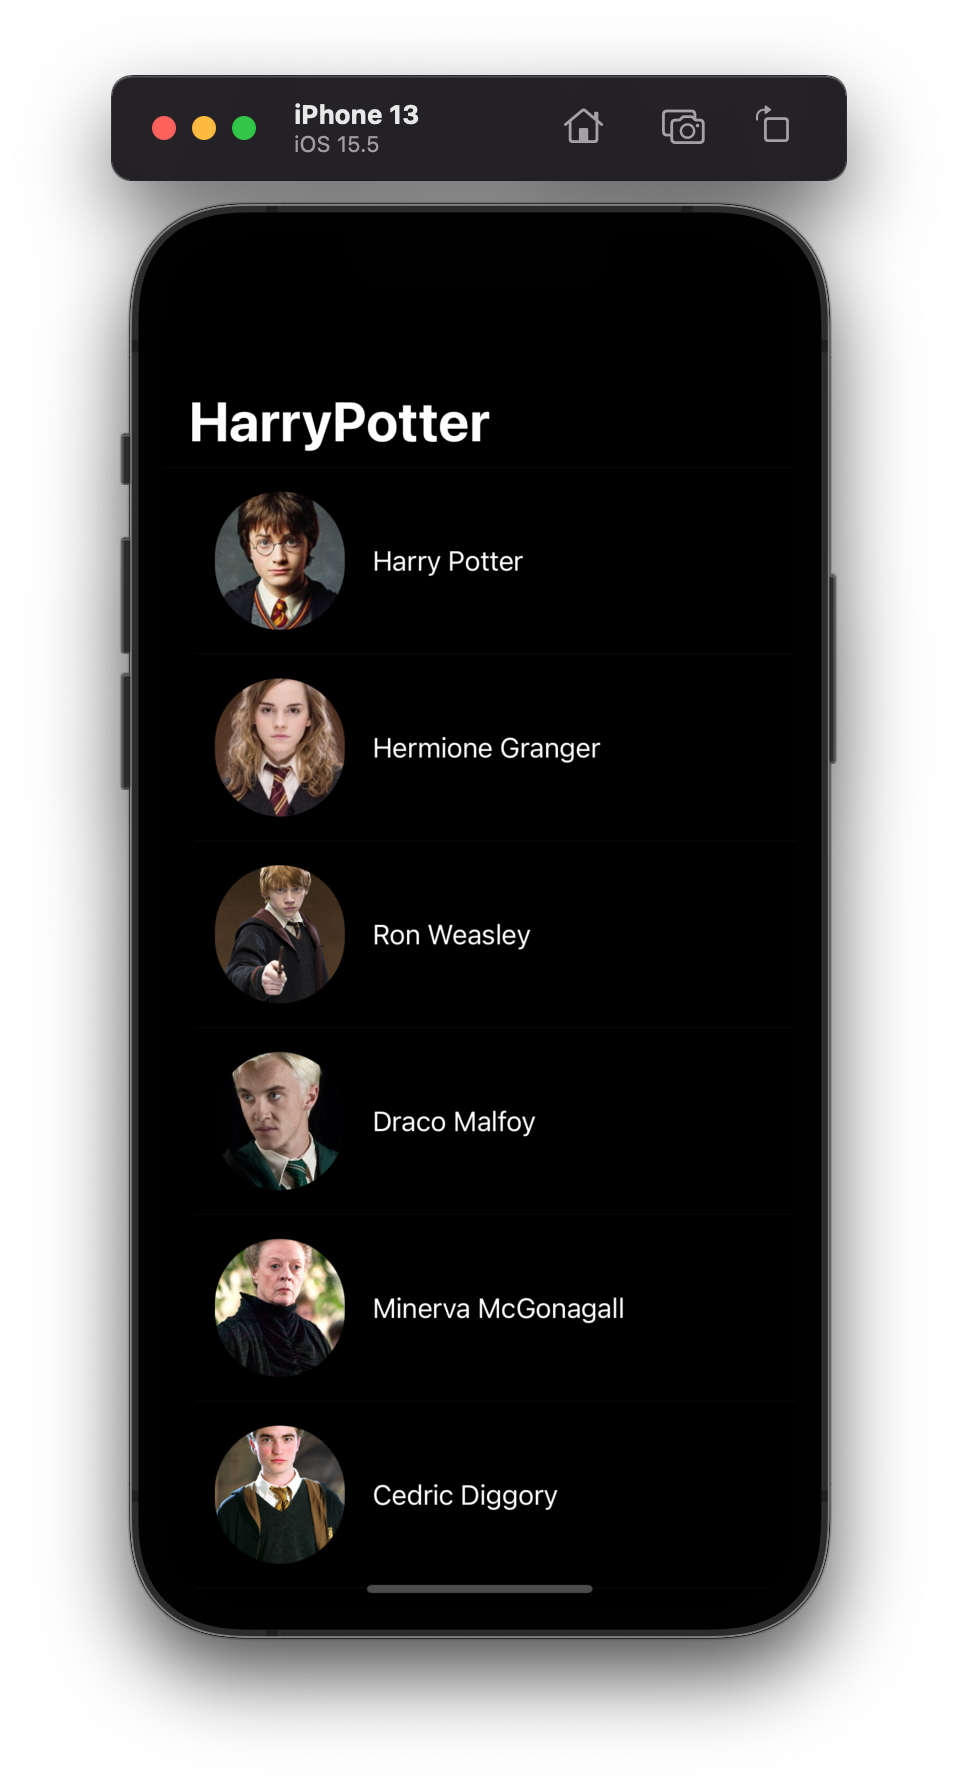
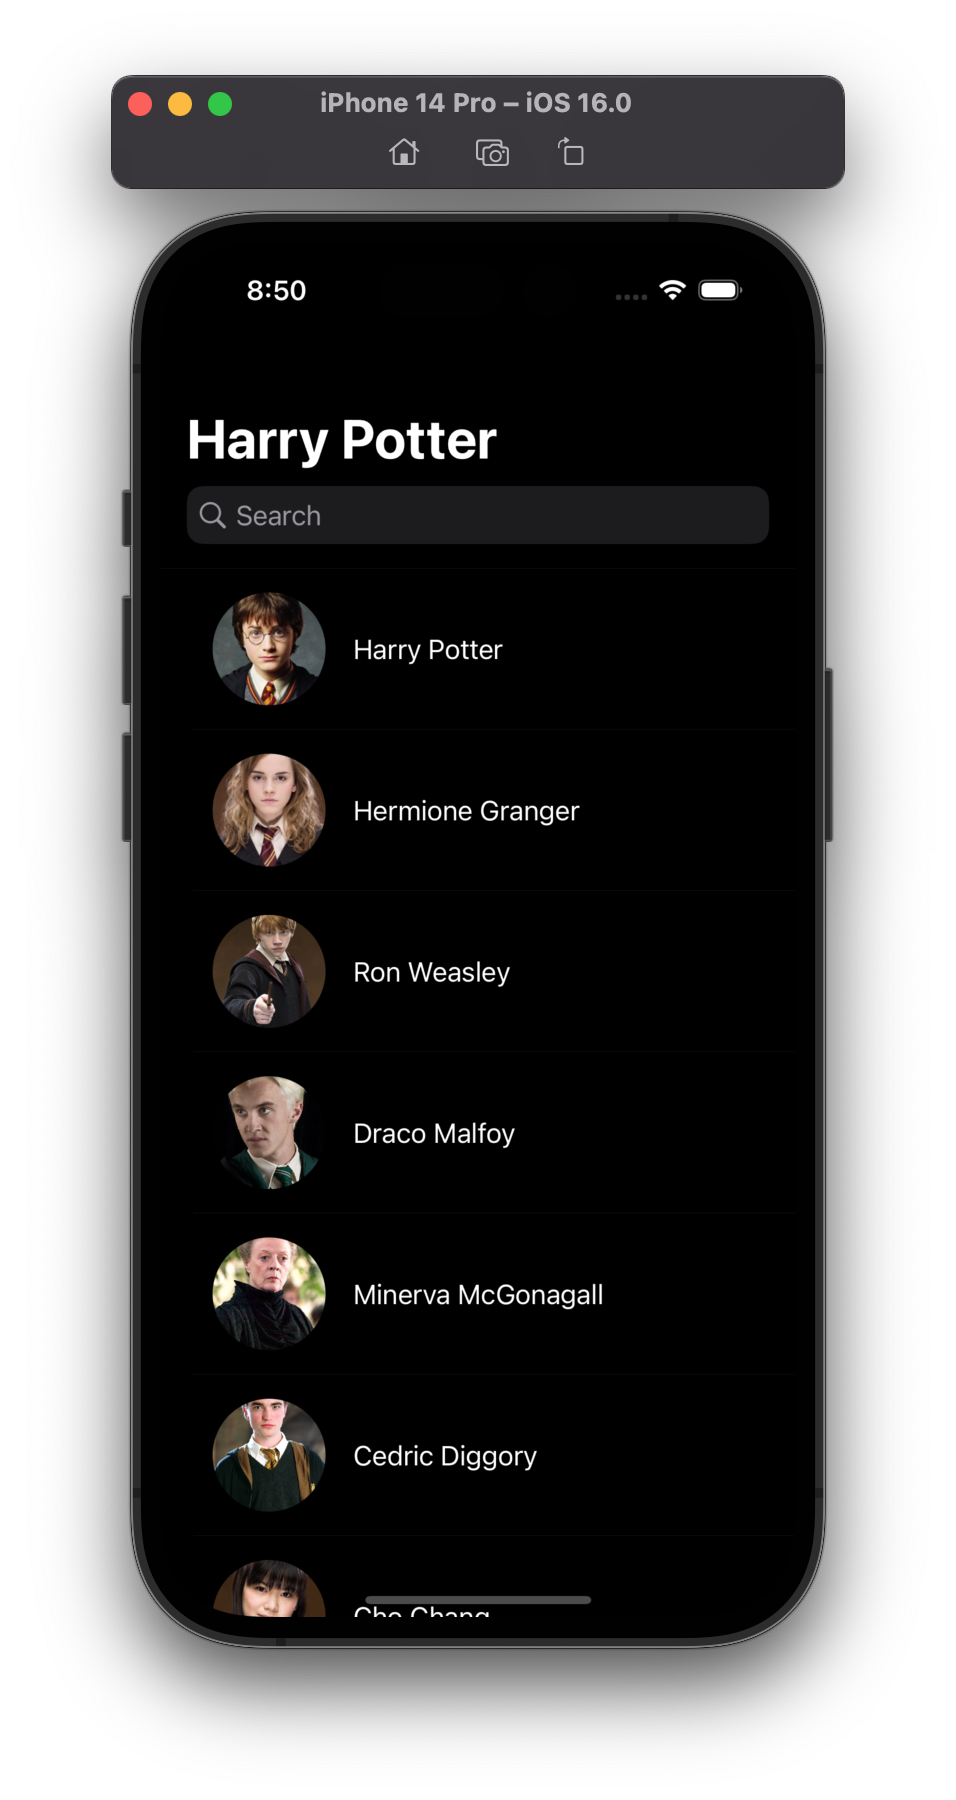
search did

Changed region(s): [[0.1213, 0.0307, 0.8797, 0.9218], [0.364, 0.6145, 0.546, 0.6453], [0.2427, 0.1536, 0.3337, 0.1844]]

diff --git a/HarryPotterApi/ViewControllers/MainViewController.swift b/HarryPotterApi/ViewControllers/MainViewController.swift
@@ -9,7 +9,8 @@ import UIKit
 
 final class MainViewController: UITableViewController {
     
-    //MARK: -
+    //MARK: - Privet properties
+    
     private var harryPotter: [Character] = []
     private var filteredCharacter: [Character] = []
     private let searchController = UISearchController(searchResultsController: nil)
@@ -45,8 +46,8 @@ final class MainViewController: UITableViewController {
     
     override func prepare(for segue: UIStoryboardSegue, sender: Any?) {
         guard let infoVc = segue.destination as? InfoViewController else { return }
-        guard let index = tableView.indexPathForSelectedRow else {return}
-        let harryPotter = harryPotter[index.row]
+        guard let indexPath = tableView.indexPathForSelectedRow else {return}
+        let harryPotter = isFiltering ? filteredCharacter[indexPath.row] : harryPotter[indexPath.row]
         infoVc.character = harryPotter
     }
     
